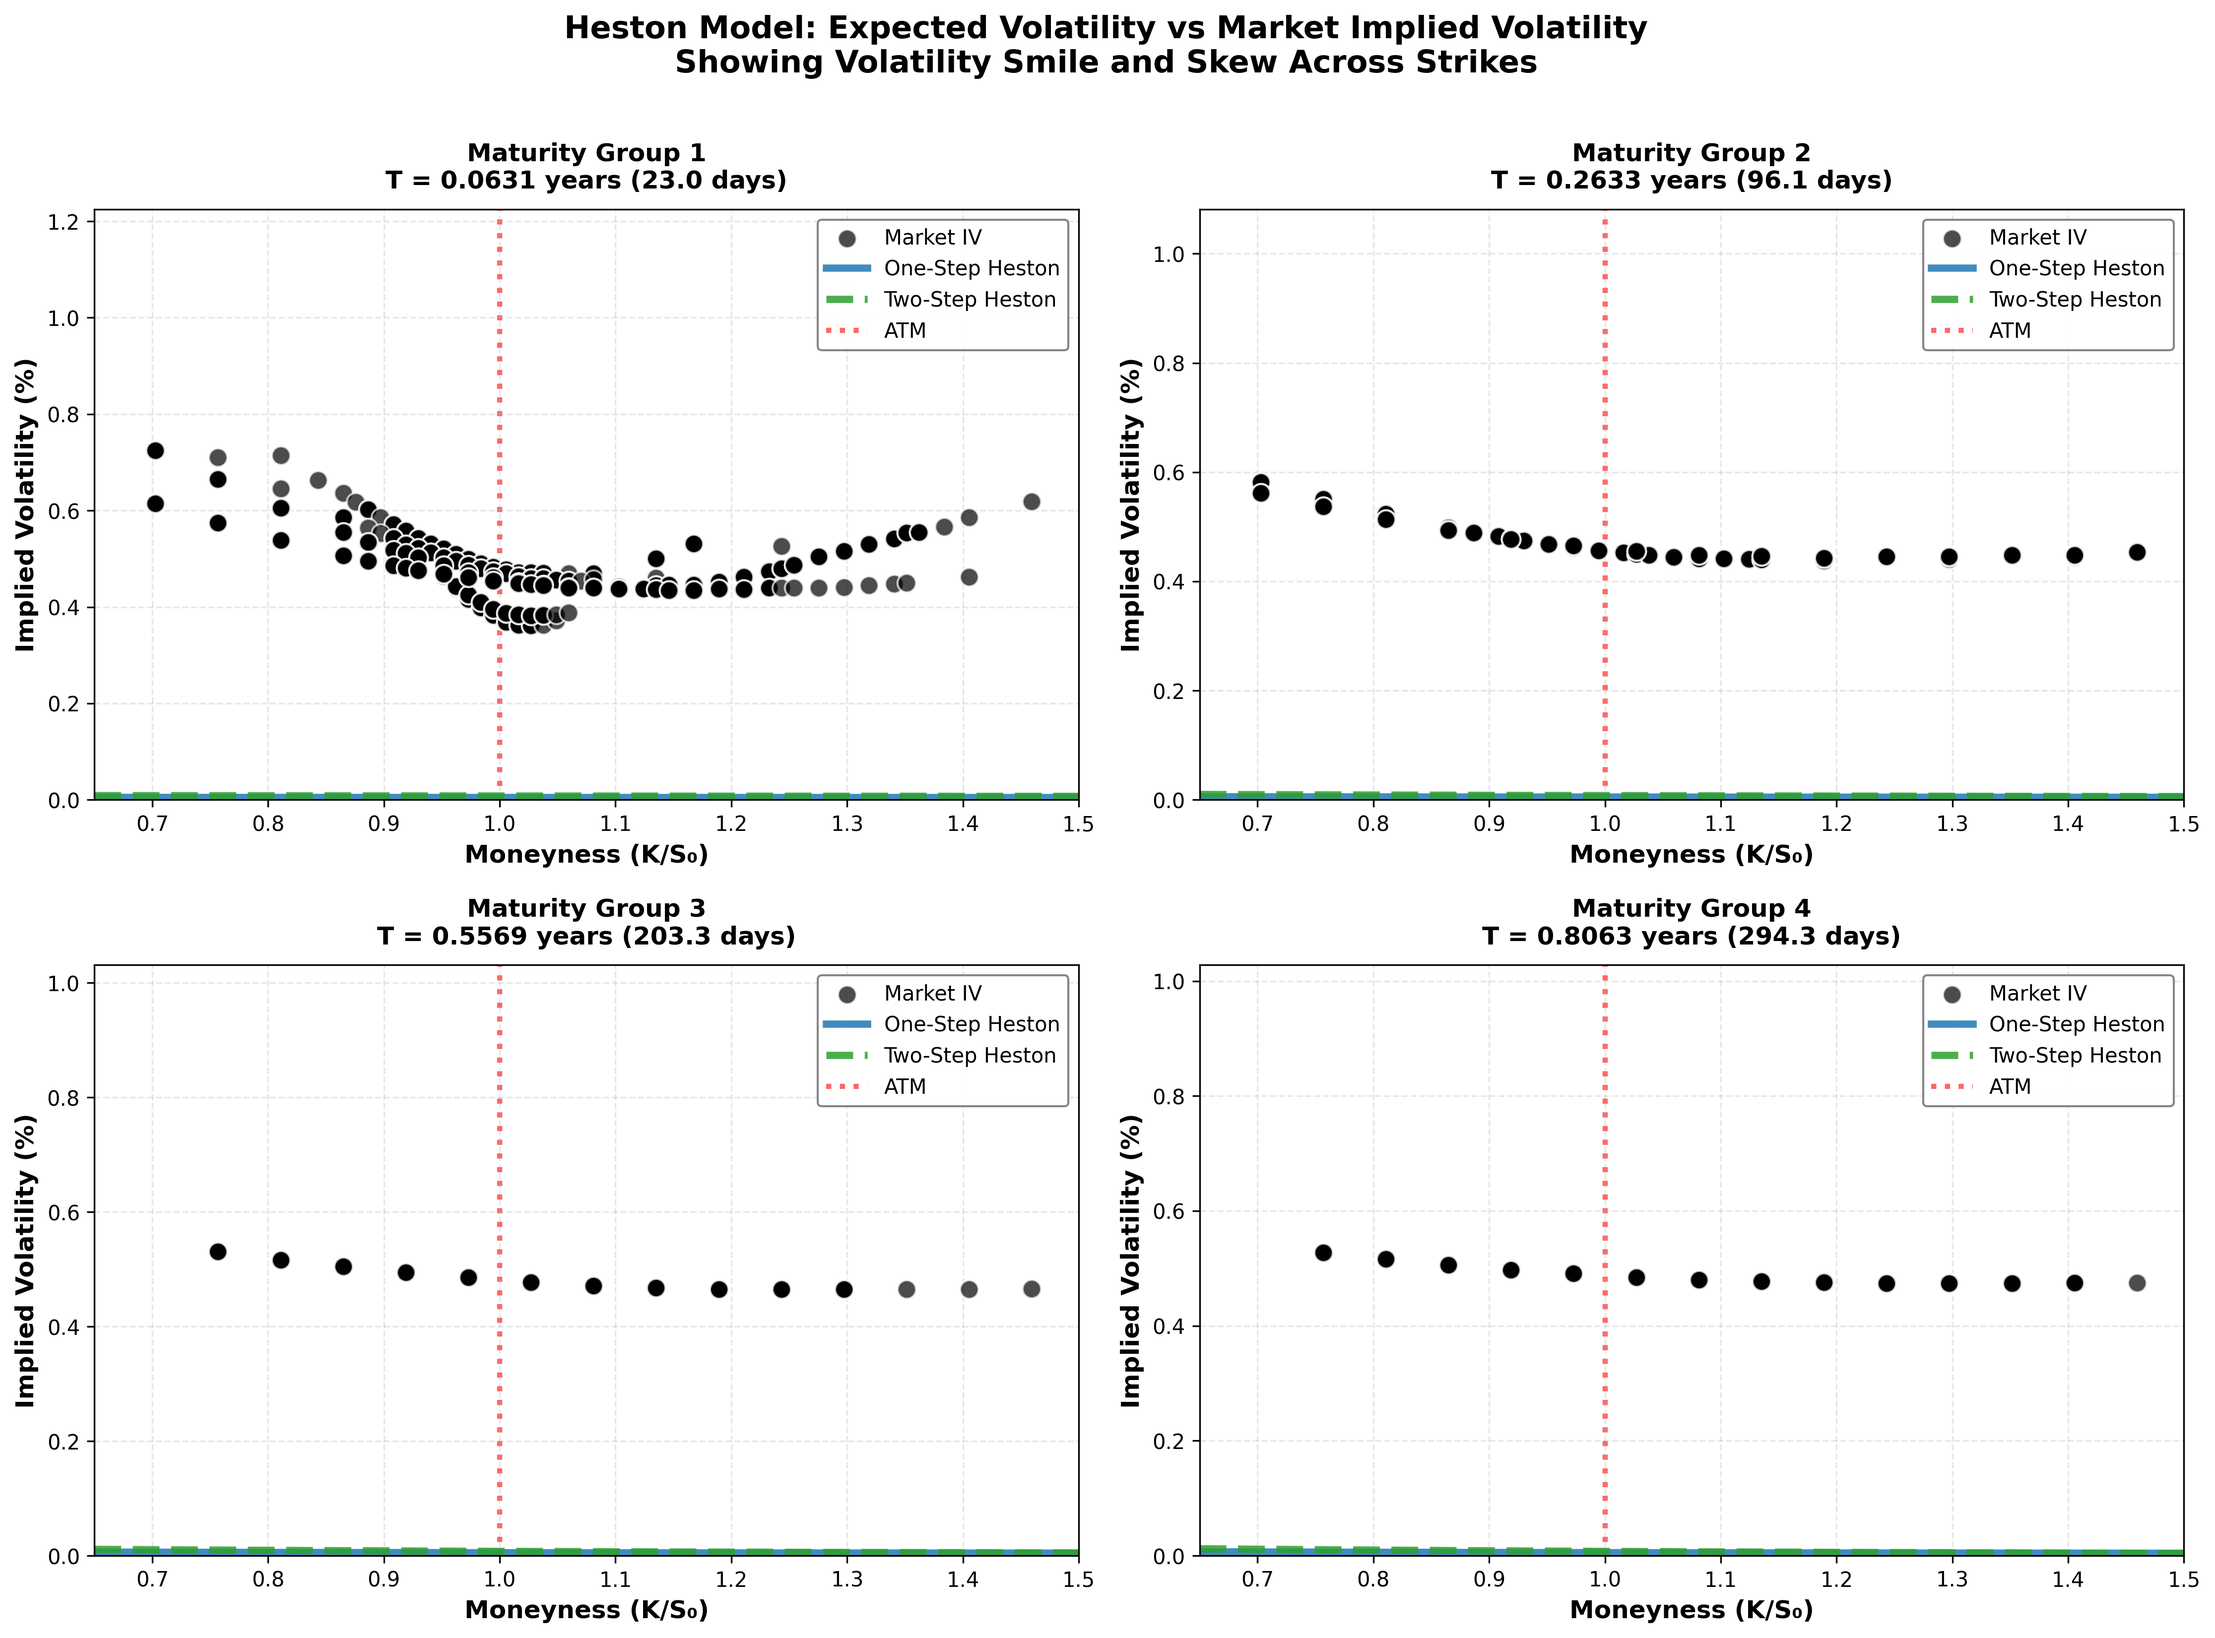
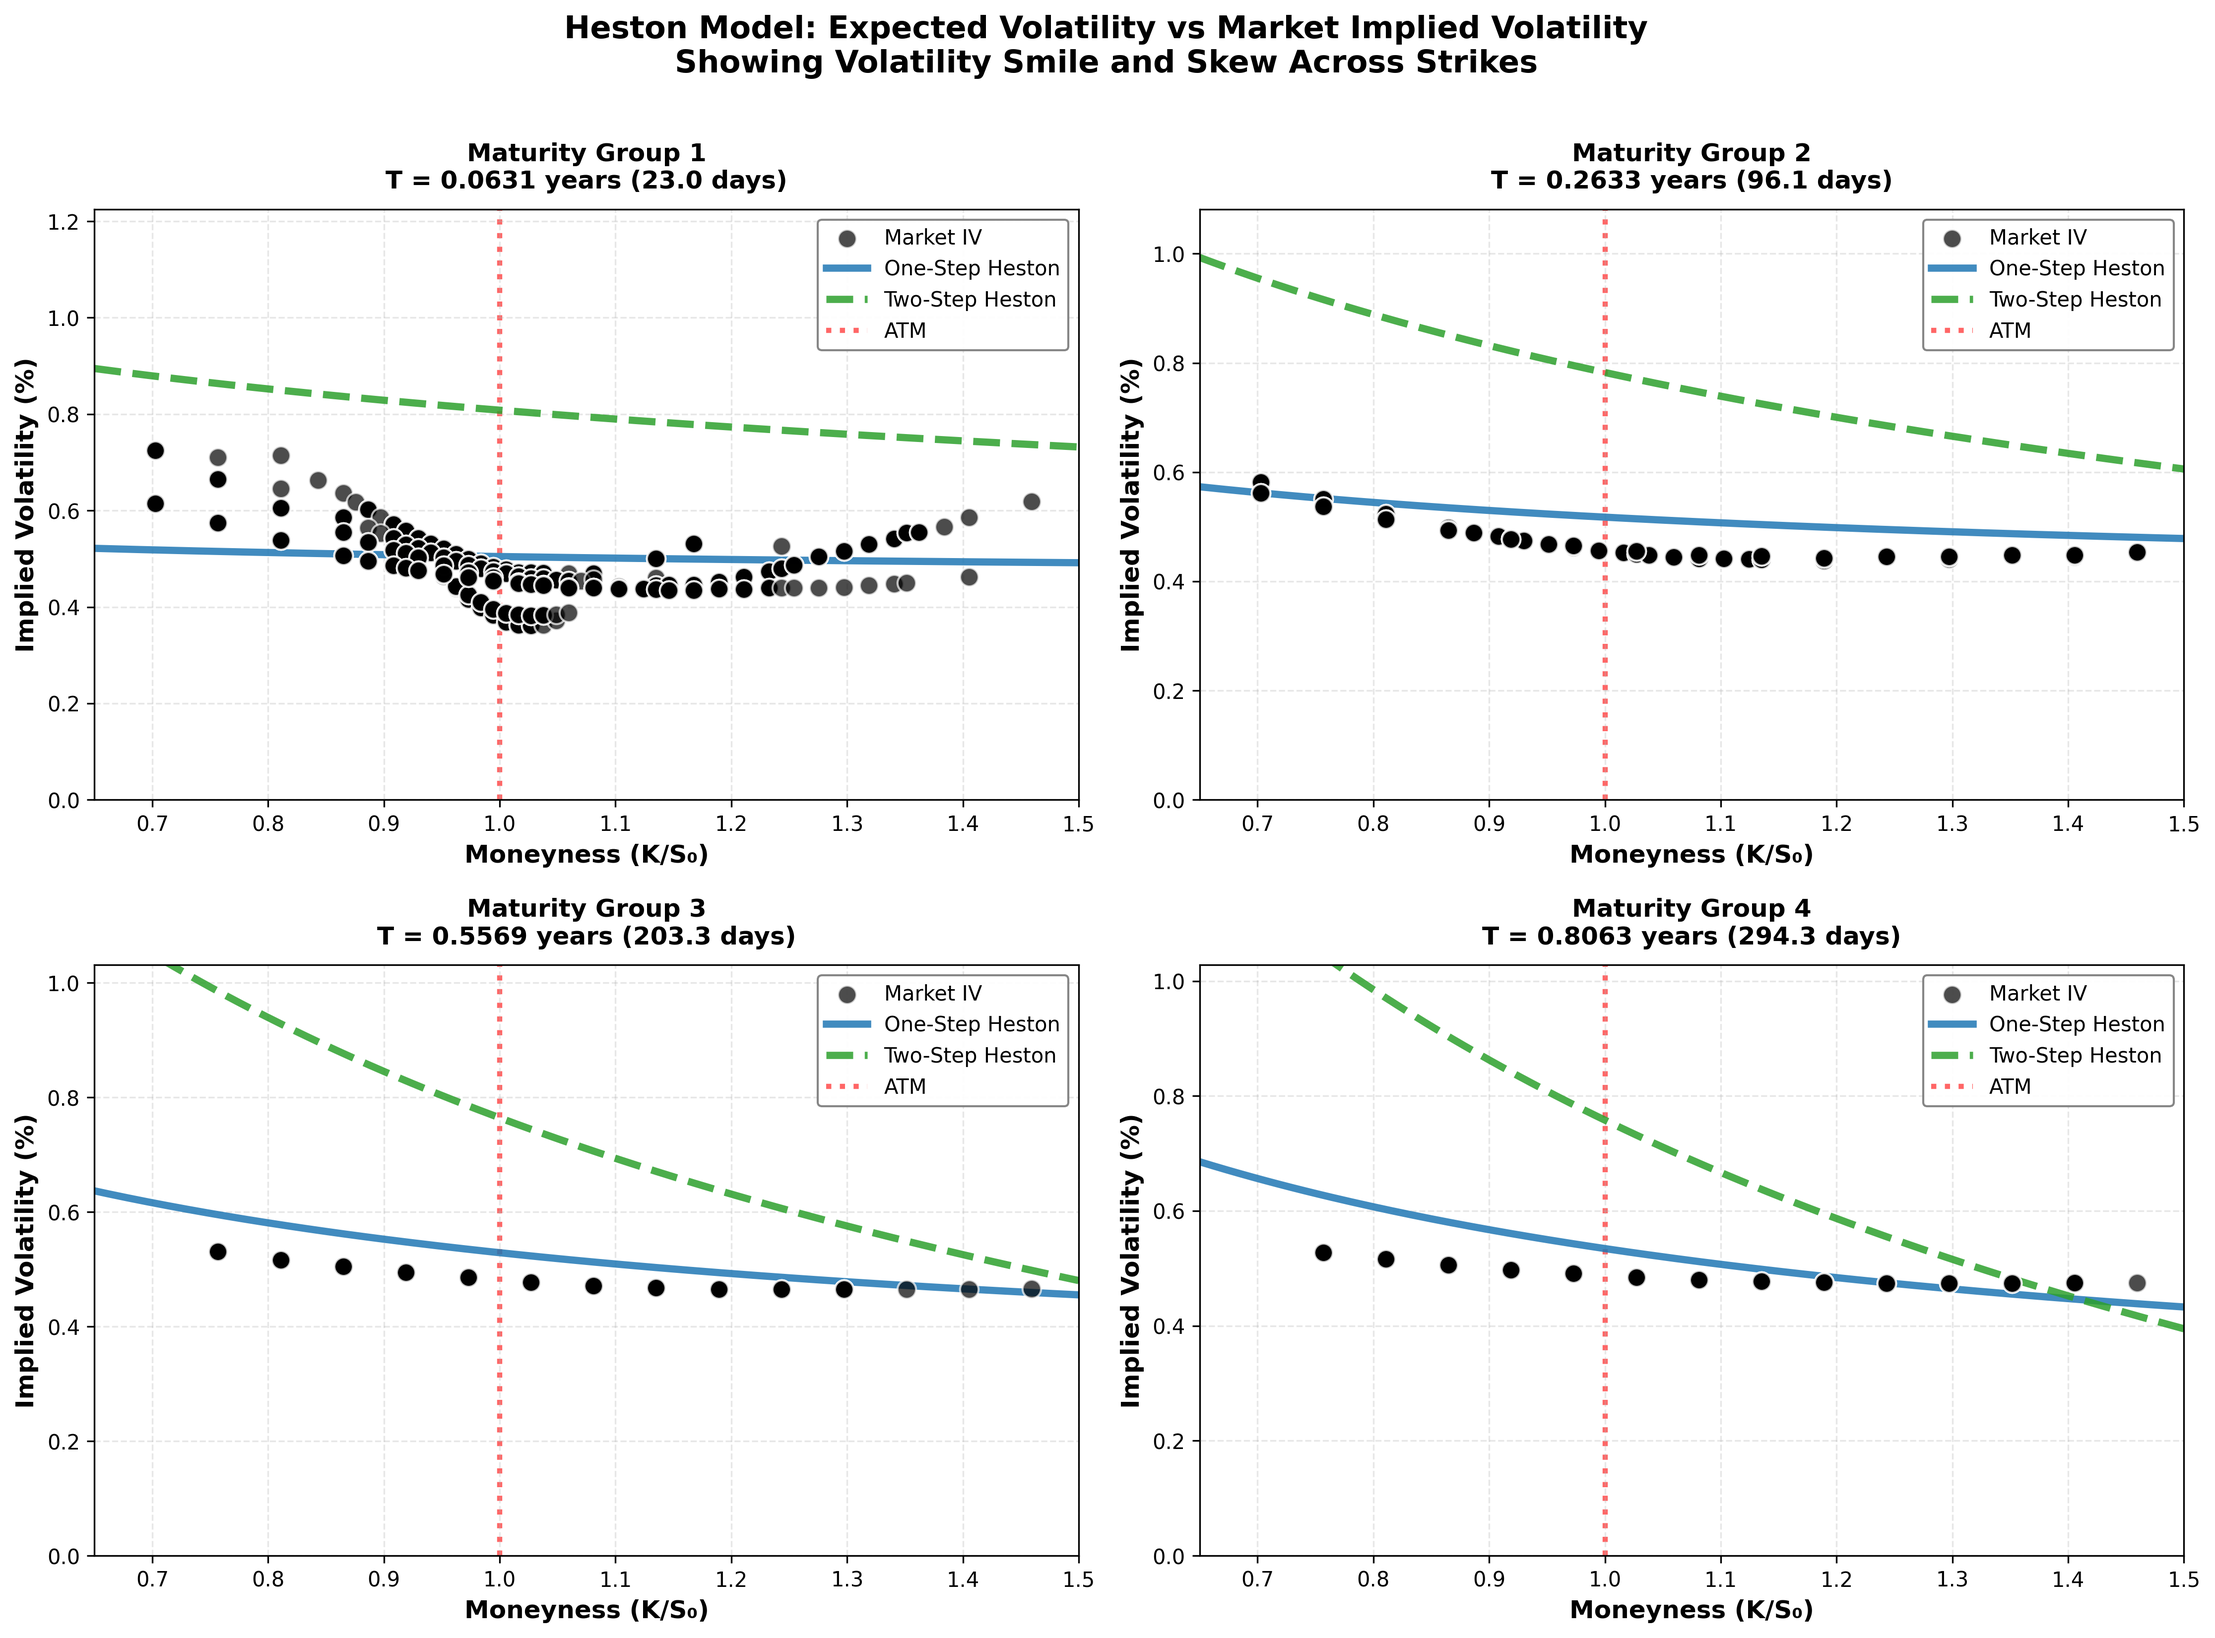
无敌了，画出来了

diff --git a/scripts/compare_calib.py b/scripts/compare_calib.py
@@ -717,7 +717,7 @@ class FastCalibrationComparison:
                        (log_m**2 - 2*log_m)
                 
                 vol_one = vol_base_one + adj1 + adj2
-                one_vols.append(vol_one / 100)
+                one_vols.append(vol_one)
                 
                 # TWO-STEP MODEL
                 E_vT_two = self.two_step_model.theta + \
@@ -732,7 +732,7 @@ class FastCalibrationComparison:
                            (log_m**2 - 2*log_m)
                 
                 vol_two = vol_base_two + adj1_two + adj2_two
-                two_vols.append(vol_two / 100)
+                two_vols.append(vol_two)
             
             # Plot model curves
             ax.plot(moneyness_grid, one_vols, lw=3.5,
@@ -777,41 +777,6 @@ class FastCalibrationComparison:
         print(f"\n{'='*70}")
         print(f"✓ Volatility matching plot saved to: {save_path}")
         print(f"{'='*70}\n")
-    
-    def _estimate_iv_from_prices(self, df, S0):
-        """Estimate implied volatility from market prices using Black-Scholes."""
-        from scipy.stats import norm
-        from scipy.optimize import brentq
-        
-        ivs = []
-        
-        for _, row in df.iterrows():
-            K = row['K']
-            T = row['T']
-            price = row['market_price']
-            opt_type = row['type']
-            
-            # Black-Scholes formula
-            def bs_price(sigma):
-                if sigma <= 0 or T <= 0:
-                    return np.inf
-                d1 = (np.log(S0/K) + (self.r - self.q + 0.5*sigma**2)*T) / (sigma*np.sqrt(T))
-                d2 = d1 - sigma*np.sqrt(T)
-                
-                if opt_type == 'call':
-                    return S0*np.exp(-self.q*T)*norm.cdf(d1) - K*np.exp(-self.r*T)*norm.cdf(d2)
-                else:
-                    return K*np.exp(-self.r*T)*norm.cdf(-d2) - S0*np.exp(-self.q*T)*norm.cdf(-d1)
-            
-            # Solve for IV
-            try:
-                iv = brentq(lambda sig: bs_price(sig) - price, 0.01, 3.0)
-                ivs.append(iv)
-            except:
-                ivs.append(np.nan)
-        
-        return ivs
-
 
 def main():
     """Main execution."""
